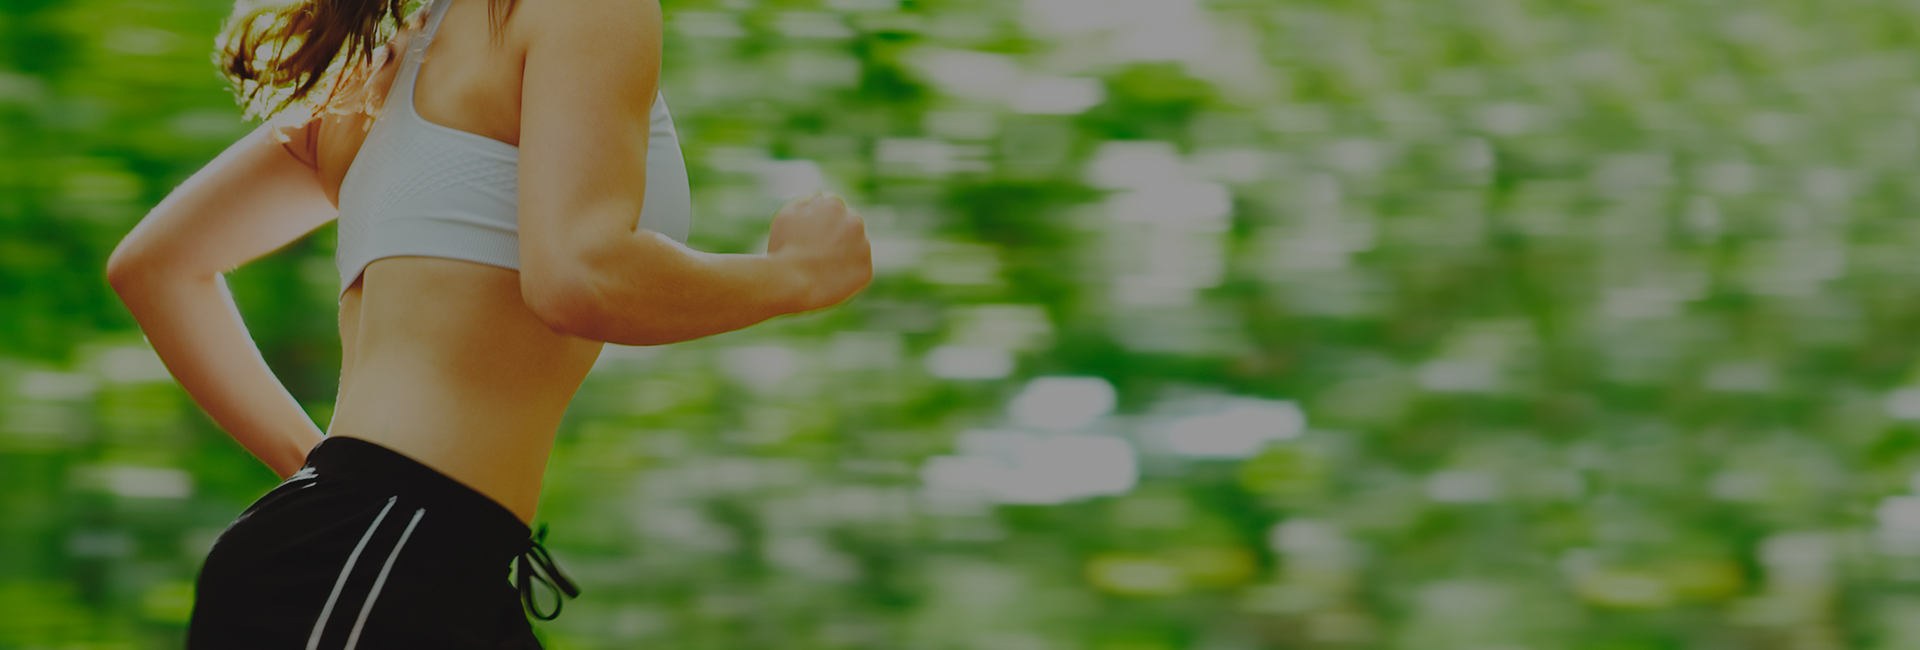
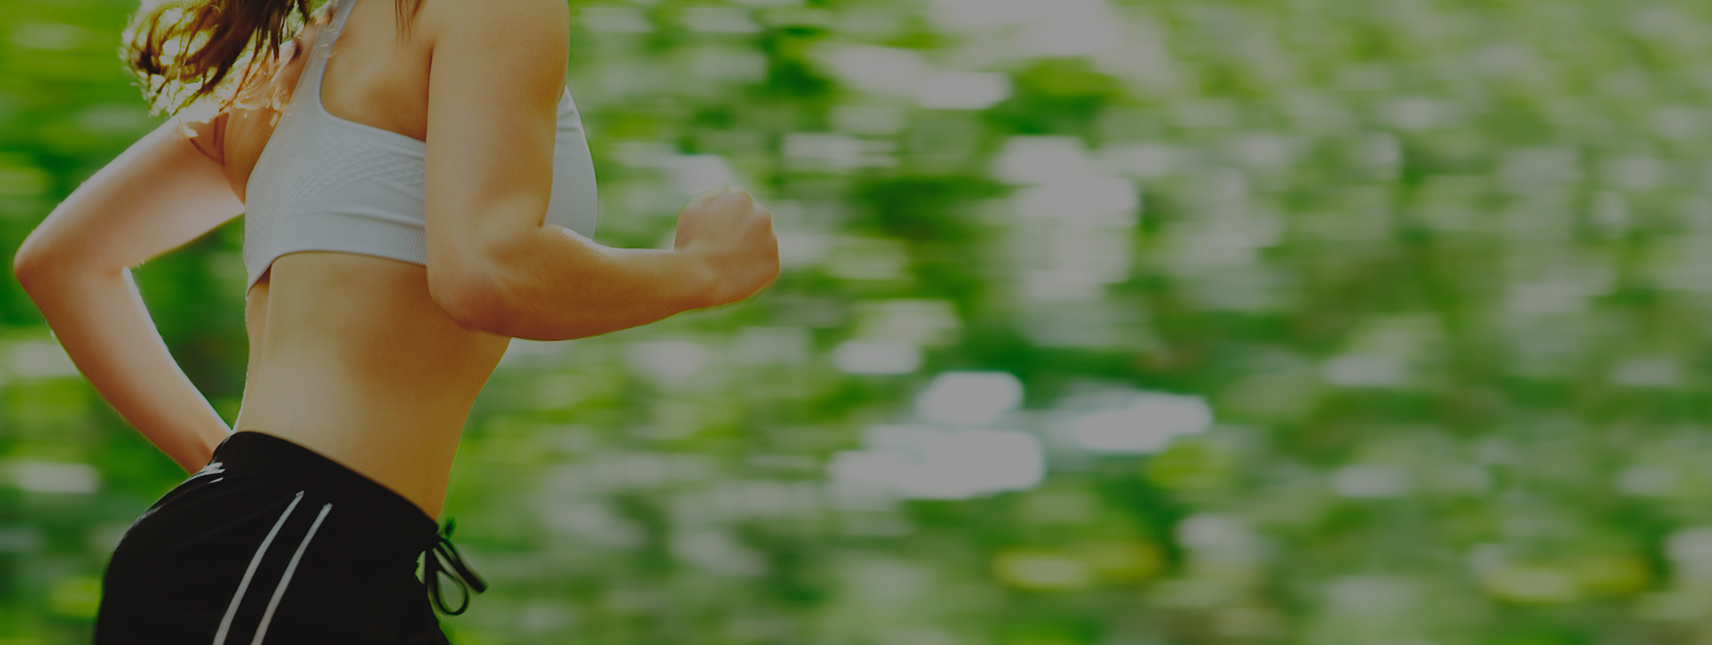
1 and 2 sections with adoptation

diff --git a/src/css/style.min.css b/src/css/style.min.css
@@ -1,1 +1,1 @@
-*{font-family:"Museo Sans Cyrl",sans-serif}.container{max-width:950px;margin:0 auto}.promo{min-height:650px;padding:21px 0 93px 0;background:url(../../img/bg1.jpg) center center/cover no-repeat}.promo__wrepper{display:flex;flex-direction:column;align-items:flex-end;margin-top:91px}.promo__header{font-size:42px;font-weight:700;color:#fff;text-transform:uppercase;line-height:42px;margin-bottom:0}.promo__subheader{font-size:24px;font-weight:500;color:#fff;text-transform:uppercase;line-height:24px;margin-top:17px;margin-bottom:0}.promo__icons{margin-top:67px;width:425px;display:flex;justify-content:space-between;align-items:center}.promo__icon{width:108px;text-align:center;font-size:14px;font-weight:500;color:#fff}.promo__icon img{display:block;margin:0 auto;margin-bottom:20px}.promo__link{margin-top:18px;font-size:16px;font-weight:500;color:#fff}.promo__link a{text-transform:uppercase;color:#fff;text-decoration:underline}.header{display:flex;justify-content:space-between;align-items:center}.header__logo{width:250px}.header__logo img{width:100%}.header__official{font-size:12px;font-weight:500;text-align:center;color:#fff}.header__official span{display:block;font-size:18px;font-weight:700}.header__phone{display:block;font-size:18px;font-weight:700;color:#fff}.header__phone:hover{color:#fff;text-decoration:none}.header__contacts{display:flex;flex-direction:column;align-items:flex-end}.button{width:150px;height:30px;border-radius:5px;background-color:#c70101;border:none;font-size:12px;font-weight:500;text-align:center;color:#fff;text-transform:uppercase}.button_main{margin-top:67px;width:300px;height:50px;font-size:16px}.advantages{min-height:470px;padding:70px 0 95px 0;background-color:#f6f6f6}.advantages__wrepper{margin:0 auto;display:flex;justify-content:space-between;align-items:flex-start;max-width:920px}.advantages__benefit{display:flex;flex-direction:column;justify-content:center;align-items:center;margin-top:65px;width:235px}.advantages__benefit img{width:70px;height:70px;display:block;margin:0 auto}.advantages__text{margin-top:37px;text-align:center;font-size:18px;font-weight:700;line-height:18px;color:#0d0d0d}.advantages__text span{display:block;margin-top:29px;font-size:14px;font-weight:300;line-height:normal}.advantages__text a{color:red;text-transform:uppercase;text-decoration:underline}.title{font-size:30px;font-weight:700;line-height:30px;text-align:center;text-transform:uppercase;color:#0d0d0d}
+*{font-family:"Museo Sans Cyrl",sans-serif}.container{max-width:950px;margin:0 auto}.promo{min-height:650px;padding:21px 0 93px 0;background:url(../../img/bg1.jpg) center center/cover no-repeat}.promo__wrepper{display:flex;flex-direction:column;align-items:flex-end;margin-top:91px}.promo__header{font-size:42px;font-weight:700;color:#fff;text-transform:uppercase;line-height:42px;margin-bottom:0}.promo__subheader{font-size:24px;font-weight:500;color:#fff;text-transform:uppercase;line-height:24px;margin-top:17px;margin-bottom:0}.promo__icons{margin-top:67px;width:425px;display:flex;justify-content:space-between;align-items:center}.promo__icon{width:108px;text-align:center;font-size:14px;font-weight:500;color:#fff}.promo__icon img{display:block;margin:0 auto;margin-bottom:20px}.promo__link{margin-top:18px;font-size:16px;font-weight:500;color:#fff}.promo__link a{text-transform:uppercase;color:#fff;text-decoration:underline}@media(max-width:767px){.promo{background-position-x:left;padding-bottom:30px}.promo__header{font-size:35px;line-height:35px}.promo__link{margin-top:14px}.promo__link a{display:inline-block;line-height:30px}}@media(max-width:575px){.promo{background:url(../../img/bg1_mobile.jpg) center center/cover no-repeat}.promo__header{font-size:20px;line-height:20px}.promo__subheader{margin-top:9px;font-size:14px}.promo__icons{width:306px}.promo__icon{font-size:12px}.promo__link{font-size:15px;margin-top:10px}.promo__link a{line-height:22px}}.header{display:flex;justify-content:space-between;align-items:center}.header__logo{width:250px}.header__logo img{width:100%}.header__official{font-size:12px;font-weight:500;text-align:center;color:#fff}.header__official span{display:block;font-size:18px;font-weight:700}.header__phone{display:block;font-size:18px;font-weight:700;color:#fff}.header__phone:hover{color:#fff;text-decoration:none}.header__contacts{display:flex;flex-direction:column;align-items:flex-end}@media(max-width:767px){.header__official{display:none}.header__phone{font-size:18px;font-weight:500;margin-bottom:10px}}@media(max-width:575px){.header{align-items:flex-start}.header__logo{width:150px}.header__phone{height:19px;font-size:15px;line-height:15px;margin-bottom:9px}}.button{width:150px;height:30px;border-radius:5px;background-color:#c70101;border:none;font-size:12px;font-weight:500;text-align:center;color:#fff;text-transform:uppercase}.button_main{margin-top:67px;width:300px;height:50px;font-size:16px}@media(max-width:767px){.button{width:180px;height:38px;font-size:14px}.button_main{margin-top:67px;width:300px;height:50px;font-size:16px}}@media(max-width:575px){.button{width:140px;height:30px;font-size:11px}.button_main{width:170px;height:36px}}.advantages{min-height:470px;padding:70px 0 95px 0;background-color:#f6f6f6}.advantages__wrepper{margin:0 auto;display:flex;justify-content:space-between;align-items:flex-start;max-width:920px}.advantages__benefit{display:flex;flex-direction:column;justify-content:center;align-items:center;margin-top:65px;width:235px}.advantages__benefit img{width:70px;height:70px;display:block;margin:0 auto}.advantages__text{margin-top:37px;text-align:center;font-size:18px;font-weight:700;line-height:18px;color:#0d0d0d}.advantages__text span{display:block;margin-top:29px;font-size:14px;font-weight:300;line-height:normal}.advantages__text a{color:red;text-transform:uppercase;text-decoration:underline}@media(max-width:767px){.advantages__benefit{padding:0 7px}.advantages__text{font-size:15px}.advantages__text span{font-size:11px;margin-top:19px}}@media(max-width:575px){.advantages{padding:50px 0 70px 0}.advantages__wrepper{flex-direction:column;justify-self:center;align-items:center}.advantages__benefit{margin-top:42px;width:266px}.advantages__text{margin-top:17px;font-size:17px}.advantages__text span{margin-top:11px;font-size:15px}}.title{font-size:30px;font-weight:700;line-height:30px;text-align:center;text-transform:uppercase;color:#0d0d0d}@media(max-width:767px){.title{font-size:27px}}@media(max-width:575px){.title{font-size:23px}}@media(max-width:991px){.container{width:740px}}@media(max-width:767px){.container{width:555px}}@media(max-width:575px){.container{width:310px}}

diff --git a/src/sass/blocks/_promo.scss b/src/sass/blocks/_promo.scss
@@ -54,7 +54,55 @@
             color: #fff;
             text-decoration: underline;
         }
-    }
-   
-    
+    }    
 }
+
+
+@media (max-width: $medium) {
+    .promo {
+        background-position-x:left ;
+        padding-bottom: 30px;
+        &__header {
+            font-size: 35px;
+            line-height: 35px;
+        }
+        &__link {
+            margin-top: 14px;
+            a {
+              display: inline-block;  
+              line-height: 30px;
+            }
+        }
+    }
+
+}
+
+@media (max-width: $small) {
+    .promo {
+        background: url(../../img/bg1_mobile.jpg) center (center/cover) no-repeat;
+        
+        &__header {
+            font-size: 20px;
+            line-height: 20px;
+        }
+        &__subheader {
+            margin-top: 9px;
+            font-size: 14px;
+        }
+        &__icons {
+            width: 306px;
+        }
+        &__icon {
+            font-size: 12px;
+        }
+        &__link {
+            font-size: 15px;
+
+            margin-top: 10px;
+            a {
+                line-height: 22px;
+            }
+        }
+    } 
+}
+ 

diff --git a/src/sass/blocks/_advantages.scss b/src/sass/blocks/_advantages.scss
@@ -45,3 +45,41 @@
     }
 
 }
+@media (max-width: $medium) {
+    .advantages {
+        &__benefit {
+            padding: 0 7px;
+        }
+        &__text {
+            font-size: 15px;
+            span {
+                font-size: 11px;
+                margin-top: 19px;
+            }
+        }
+    }
+}
+
+@media (max-width: $small) {
+    .advantages {
+        padding: 50px 0 70px 0;
+        &__wrepper {
+            flex-direction: column;
+            justify-self: center;
+            align-items: center;
+        }
+        &__benefit {
+            margin-top: 42px;
+            width: 266px;
+        }
+        &__text {
+            margin-top: 17px;
+            font-size: 17px;
+            span {
+                margin-top: 11px;
+                font-size: 15px;
+            }
+        }
+
+    }
+}

diff --git a/src/sass/blocks/_buttons.scss b/src/sass/blocks/_buttons.scss
@@ -1,3 +1,4 @@
+
 .button {
     width: 150px;
     height: 30px;
@@ -10,9 +11,29 @@
     color: #fff;
     text-transform: uppercase;
     &_main {
-        margin-top: 67px;
-        width: 300px;
-        height: 50px;
-        font-size: 16px;
+        @include main_button;
+    }
+}
+
+@media (max-width: $medium) {
+    .button {
+        width: 180px;
+        height: 38px;
+        font-size: 14px;
+        &_main {
+            @include main_button;
+        }
+    }
+}
+
+@media (max-width: $small) {
+    .button {
+        width: 140px;
+        height: 30px;
+        font-size: 11px;
+        &_main {
+            width: 170px;
+            height: 36px;
+        }
     }
 }

diff --git a/src/sass/blocks/_header.scss b/src/sass/blocks/_header.scss
@@ -35,3 +35,34 @@
         align-items: flex-end;
     }
 }
+
+
+
+@media (max-width: $medium) {
+    .header {
+        &__official {
+            display: none;
+        }
+        &__phone {
+            font-size: 18px;
+            font-weight: 500;
+            margin-bottom: 10px;
+        }
+    }
+}
+
+@media (max-width: $small) {
+    .header {
+        align-items: flex-start;
+        &__logo {
+            width: 150px;
+        }
+        &__phone {
+            height: 19px;
+            font-size: 15px;
+            line-height: 15px;
+            margin-bottom: 9px;
+        }
+    }
+
+}

diff --git a/src/sass/style.scss b/src/sass/style.scss
@@ -1,4 +1,5 @@
 @import 'base/variables';
+@import 'base/mixins';
 * {
     font-family: 'Museo Sans Cyrl', sans-serif;
 }
@@ -7,9 +8,30 @@
     margin: 0 auto;
 }
 
+
+
 @import 'blocks/promo';
 @import 'blocks/header';
 @import 'blocks/buttons';
 @import 'blocks/advantages';
 @import 'blocks/title';
 
+
+@media (max-width: $large) {
+    .container {
+        width: 740px;
+    }
+}
+
+@media (max-width: $medium) {
+    .container {
+        width: 555px;
+    }
+}
+
+@media (max-width: $small) {
+    .container {
+        width: 310px;
+        
+    }
+}

diff --git a/src/sass/blocks/_title.scss b/src/sass/blocks/_title.scss
@@ -6,3 +6,15 @@
     text-transform: uppercase;
     color: #0d0d0d;
 }
+@media (max-width: $medium) {
+    .title{
+       font-size: 27px; 
+    }
+    
+}
+@media (max-width: $small) {
+    .title{
+       font-size: 23px; 
+    }
+    
+}

diff --git a/src/sass/base/_mixins.scss b/src/sass/base/_mixins.scss
@@ -1,0 +1,6 @@
+@mixin main_button {
+        margin-top: 67px;
+        width: 300px;
+        height: 50px;
+        font-size: 16px;
+}

diff --git a/src/sass/base/_variables.scss b/src/sass/base/_variables.scss
@@ -1,1 +1,4 @@
-$main-color: #c70101
+$main-color: #c70101;
+$large: 991px;
+$medium: 767px;
+$small: 575px;
